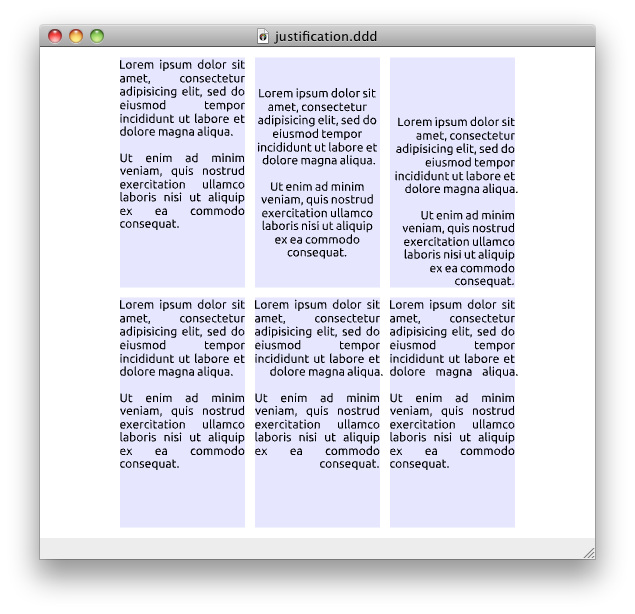
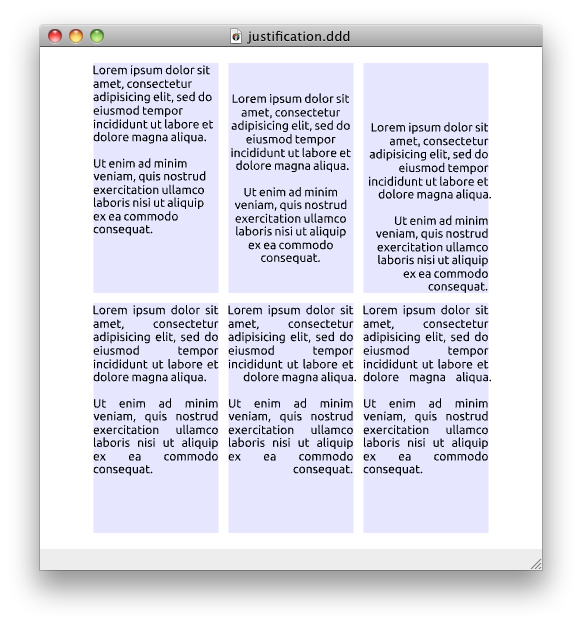
Documentation of Tao builtins: update text justification example

Changed region(s): [[0.0619, 0.0309, 0.9588, 0.9283]]

diff --git a/tao/doc/tao_text.doxy.h b/tao/doc/tao_text.doxy.h
@@ -66,7 +66,7 @@ text_box 0, 0, window_width - 50, window_height - 50,
  * powerful primitives: @ref align and @ref vertical_align.
  *
  * Example:
- @verbatim
+@verbatim
 // justification.ddd
 
 lorem := <<Lorem ipsum dolor sit amet, consectetur adipisicing>> &
@@ -93,15 +93,15 @@ box align ->
         text lorem
     x += w + 10
 
-box { nil }
+box { align_left ; vertical_align_top }
 box { align_center ; vertical_align_center }
 box { align_right ; vertical_align_bottom }
 y -= h + 10
 x := x0
-box { align_justify }
-box { align_right_justify }
-box { align_full_justify }
- @endverbatim
+box { align_justify ; vertical_align_top }
+box { align_right_justify ; vertical_align_top  }
+box { align_full_justify ; vertical_align_top }
+@endverbatim
  *
  * @image html justification.png "Various text justifications (justification.ddd)"
  *
